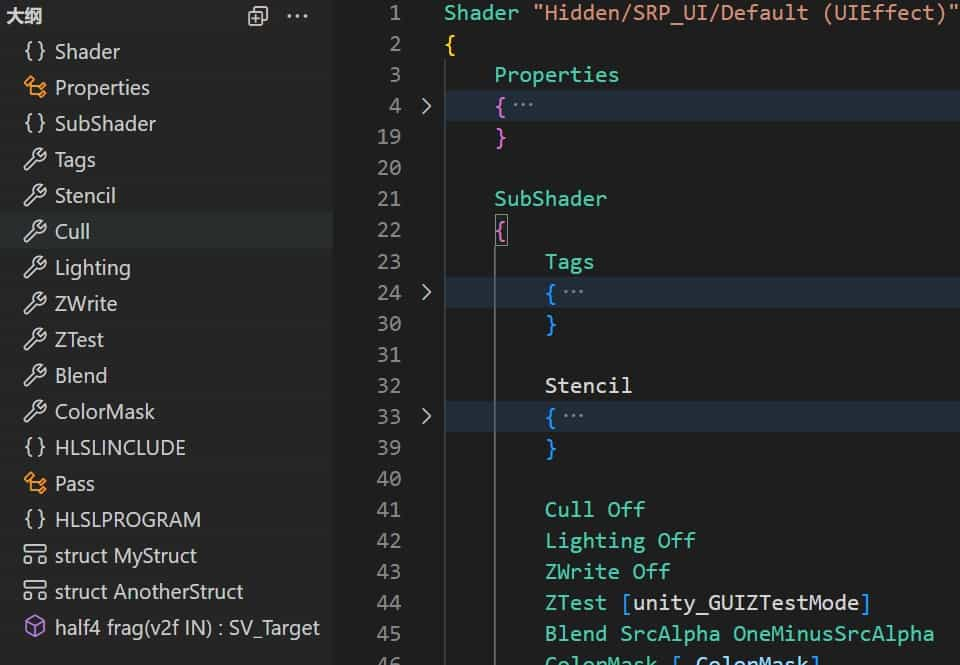
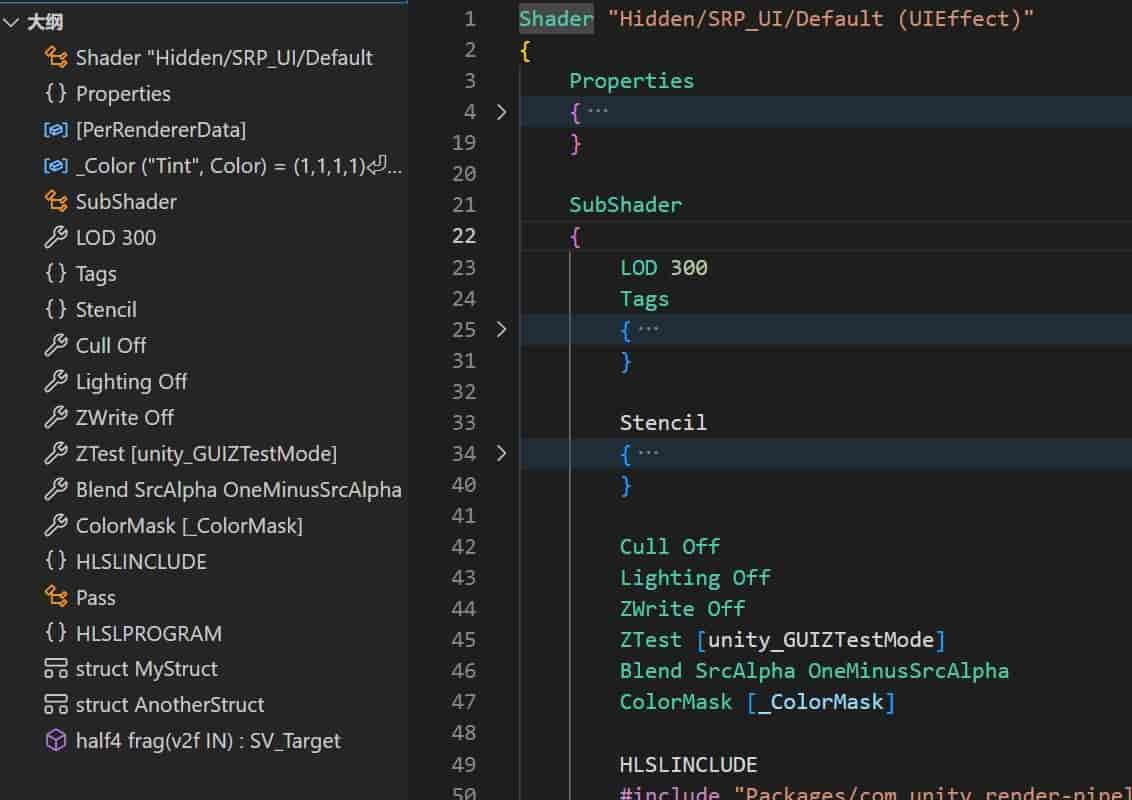
V3.0 more stable, show more property

Changed region(s): [[0.0, 0.0, 1.0, 1.0]]

diff --git a/src/documentSymbolProvider.ts b/src/documentSymbolProvider.ts
@@ -8,7 +8,7 @@ export class ShaderDocumentSymbolProvider implements vscode.DocumentSymbolProvid
         document: vscode.TextDocument,
         token: vscode.CancellationToken): vscode.DocumentSymbol[] {
         
-        const tokenToKind = this.tokenToKind;
+        //const tokenToKind = this.tokenToKind;
         const text = document.getText();
         const matchedList = this.matchAll(this.pattern, text);
         const symbols: vscode.DocumentSymbol[] = [];
@@ -16,27 +16,49 @@ export class ShaderDocumentSymbolProvider implements vscode.DocumentSymbolProvid
 
         for (const matched of matchedList) {
             try {
-                //const type = matched[1] || matched[4] || matched[6];
-                const name = (matched[2] || matched[3] || matched[5] || matched[7] || '').replace('{','').trim();
-                if (!name) continue;
-                //console.log("type="+type);
-                //console.log("name="+name);
-
+                if (!matched[0]) continue;
+                const allText = matched[0].replace('{','').trim();
                 let kind: vscode.SymbolKind;
-                if (name && tokenToKind[name]) {kind = tokenToKind[name];
-                } else if (matched[6]) {
+                if(allText.startsWith("Shader") ||  allText.startsWith("SubShader"))
+                {
+                    kind = vscode.SymbolKind.Class;
+                }
+                else if(allText.startsWith("Pass") || allText.startsWith("pass"))
+                {
+                    kind = vscode.SymbolKind.Class;
+                }
+                else if(allText.startsWith("Cull") || allText.startsWith("ZWrite") || allText.startsWith("ZTest") || allText.startsWith("Blend") || allText.startsWith("ColorMask") || allText.startsWith("Lighting") || allText.startsWith("LOD"))
+                {
+                    kind = vscode.SymbolKind.Property;
+                }
+                else if (allText.startsWith("struct")) 
+                {
                     kind = vscode.SymbolKind.Struct;
-                } else if (matched[4]) {
-                    kind = tokenToKind[matched[4].toLowerCase()] || vscode.SymbolKind.Class;
-                } else if (this.braceStack.length > 0 && this.braceStack[this.braceStack.length-1].symbol.kind === vscode.SymbolKind.Struct) {
+                }
+                else if (allText.startsWith("CBUFFER_START") || allText.startsWith("HLSLPROGRAM") || allText.startsWith("HLSLINCLUDE") || allText.startsWith("Properties") || allText.startsWith("Tags") || allText.startsWith("Stencil")) 
+                {
+                    kind = vscode.SymbolKind.Module;
+                }
+                else if(allText.startsWith("_"))
+                {
+                    kind = vscode.SymbolKind.Variable;
+                }
+                else if(matched[0].includes("(") && matched[0].includes(")"))
+                {
+                    kind = vscode.SymbolKind.Function;
+                }
+                else if (this.braceStack.length > 0 && this.braceStack[this.braceStack.length-1].symbol.kind === vscode.SymbolKind.Struct) 
+                {
                     kind = vscode.SymbolKind.Field;
-                } else {
-                    kind = this.determineKindByContext('', name);
+                } 
+                else 
+                {
+                    kind = vscode.SymbolKind.Variable;
                 }
                 const position = document.positionAt(matched.index || 0);
                 const range = new vscode.Range(position, position);
                 const symbol = new vscode.DocumentSymbol(
-                    name,
+                    allText,
                     '',
                     kind,
                     range,
@@ -63,64 +85,8 @@ export class ShaderDocumentSymbolProvider implements vscode.DocumentSymbolProvid
         return symbols;
     }
 
-    private get tokenToKind(): { [name: string]: vscode.SymbolKind; } {
-        return {
-            'Shader': vscode.SymbolKind.Module,
-            'Properties': vscode.SymbolKind.Class,
-            'SubShader': vscode.SymbolKind.Namespace,
-            'Pass': vscode.SymbolKind.Class,
-            'pass': vscode.SymbolKind.Class,
-            'CBUFFER_START': vscode.SymbolKind.Class,
-            'CBUFFER_END': vscode.SymbolKind.Class,
-            'HLSLPROGRAM': vscode.SymbolKind.Module,
-            'HLSLINCLUDE': vscode.SymbolKind.Module,
-            'struct': vscode.SymbolKind.Struct,
-            'Tags': vscode.SymbolKind.Property,
-            'Stencil': vscode.SymbolKind.Property,
-            'Cull': vscode.SymbolKind.Property,
-            'Lighting': vscode.SymbolKind.Property,
-            'ZWrite': vscode.SymbolKind.Property,
-            'ZTest': vscode.SymbolKind.Property,
-            'Blend': vscode.SymbolKind.Property,
-            'ColorMask': vscode.SymbolKind.Property,
-            'void': vscode.SymbolKind.Function,
-            'float': vscode.SymbolKind.Function,
-            'float2': vscode.SymbolKind.Function, 
-            'float3': vscode.SymbolKind.Function,
-            'float4': vscode.SymbolKind.Function,
-            'half': vscode.SymbolKind.Function,
-            'half2': vscode.SymbolKind.Function,
-            'half3': vscode.SymbolKind.Function,
-            'half4': vscode.SymbolKind.Function,
-            'int': vscode.SymbolKind.Function,
-            'bool': vscode.SymbolKind.Function,
-            'vert': vscode.SymbolKind.Function,
-            'frag': vscode.SymbolKind.Function,
-            'ApplyHsvEffect': vscode.SymbolKind.Function,
-            'ApplyTransitionEffect': vscode.SymbolKind.Function,
-            'ApplyShinyEffect': vscode.SymbolKind.Function,
-            'ApplyToneEffect': vscode.SymbolKind.Function,
-            'ApplyColorEffect': vscode.SymbolKind.Function,
-            '#pragma': vscode.SymbolKind.Property
-        };
-    }
-
-    private determineKindByContext(type: string, name: string): vscode.SymbolKind {
-        // 根据名称特征推断类型
-        if (name.endsWith('_ST') || name.endsWith('_Tex') || name.startsWith('_')) {
-            return vscode.SymbolKind.Property; // 着色器属性
-        }
-        if (name.includes('(') && name.includes(')')) {
-            return vscode.SymbolKind.Function; // 函数
-        }
-        if (type && type.toLowerCase() === 'cbuffer') {
-            return vscode.SymbolKind.Class; // 常量缓冲区
-        }
-        return vscode.SymbolKind.Variable; // 最后才回退到变量
-    }
-
     private get pattern() {
-        return /(^|\s)(Shader|Properties|SubShader|(Pass|pass|CBUFFER_START|CBUFFER_END)(?=\s*\{)|HLSLPROGRAM|HLSLINCLUDE|(struct)\s+([a-zA-Z_]\w*)|Tags|Stencil|Cull|Lighting|ZWrite|ZTest|Blend|ColorMask)\b\s*([^\s;{}()]*)|(^\s*(?!.*return\s)[a-zA-Z_]\w*\s+[a-zA-Z_]\w*\s*\([^)]*\)\s*(?:[^{]*\{))|(^\s*\[\w+\])|(^\s*(?!.*return\s)(?:inline\s+)?(?:vert|frag|Apply\w+Effect)\s+[a-zA-Z_]\w*\s*\([^)]*\)\s*(?:[^{;]*)?\{)|(^\s*#pragma\s+(?:vertex|fragment)\s+\w+)/gm;
+        return /(^|\s)(Shader|Properties|SubShader|(Pass|pass)(?=\s*\{)|(struct)\s+([a-zA-Z_]\w*)|Tags|Stencil)\b\s*(\[[^\]]+\]|[^\s;{}()]*)|(^|\s)(Cull)\s+(Off|Back|Front)(?=\s|;|$)|\b(Lighting)\s+(On|Off|\[[^\]]+\])(?=\s|;|$)|\b(ZWrite)\s+(On|Off)(?=\s|;|$)|\b(ZTest)\s+(Less|Greater|LEqual|GEqual|Equal|NotEqual|Always|\[[^\]]+\])(?=\s|;|$)|\b(Blend)\s+(Off|(?:One|Zero|SrcColor|SrcAlpha|DstColor|DstAlpha|OneMinusSrcColor|OneMinusSrcAlpha|OneMinusDstColor|OneMinusDstAlpha)(?:\s+(?:One|Zero|SrcColor|SrcAlpha|DstColor|DstAlpha|OneMinusSrcColor|OneMinusSrcAlpha|OneMinusDstColor|OneMinusDstAlpha))?)(?=\s|;|$)|\b(ColorMask)\s+(\[[^\]]+\]|\([^)]*\))(?=\s|;|$)|\b(LOD)\s+(\d+)|(^\s*HLSLPROGRAM\b)|(^\s*HLSLINCLUDE\b)|(^\s*CBUFFER_START\b)|(^\s*(?!.*return\s)[a-zA-Z_]\w*\s+[a-zA-Z_]\w*\s*\([^)]*\)\s*(?:[^{]*\{))|(^\s*\[\w+\])|(^\s*(?!.*return\s)(?:inline\s+)?\s+[a-zA-Z_]\w*\s*\([^)]*\)\s*(?:[^{;]*)?\{)/gm;
     }
 
     private matchAll(pattern: RegExp, text: string): Array<RegExpMatchArray> {
@@ -128,12 +94,8 @@ export class ShaderDocumentSymbolProvider implements vscode.DocumentSymbolProvid
         pattern.lastIndex = 0;
         let match: RegExpMatchArray | null;
         while ((match = pattern.exec(text))) {
-            // 只过滤Pass后跟方括号的情况，保留大括号情况
-            /*const startPos = match.index || 0;
-            const nextChar = text[startPos + match[0].length];
-            if (match[1] === 'Pass' && nextChar === '[') {
-                continue;
-            }*/
+            //console.log('Full match:', match[0]);
+            //console.log('Groups:', match.slice(1).map((g,i) => `${i}:${g}`).filter(g => g));
             out.push(match);
         }
         return out;
